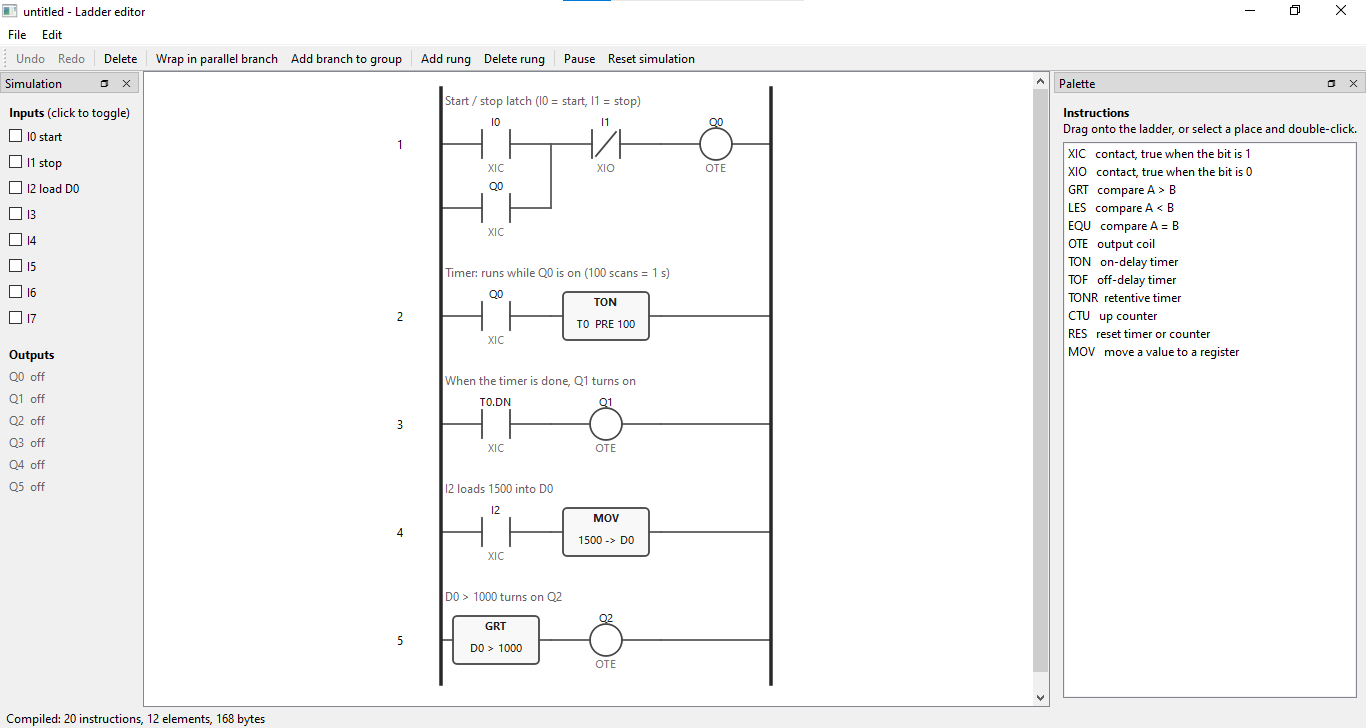
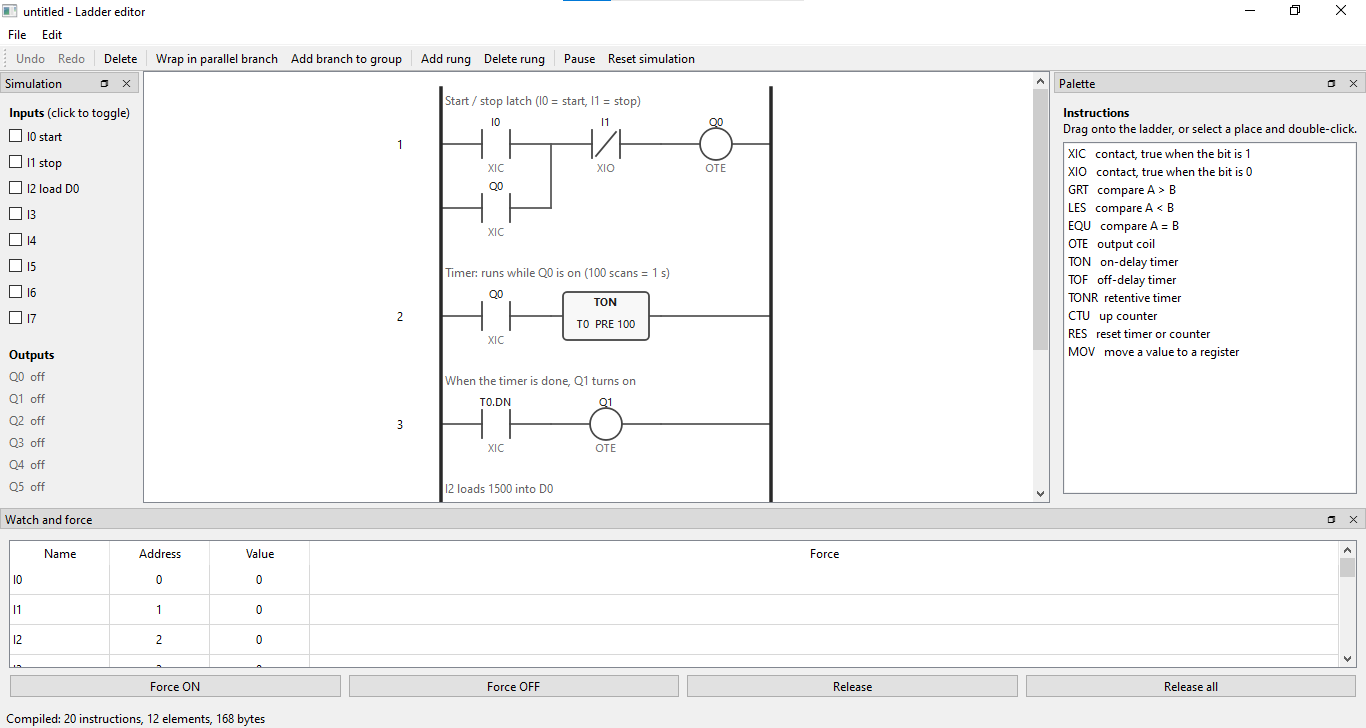
docs: update README for software completion and hardware bring-up

diff --git a/README.md b/README.md
@@ -2,18 +2,21 @@
 
 ![Qt 6](https://img.shields.io/badge/Qt-6-41cd52)
 ![C11](https://img.shields.io/badge/C-11-blue)
-![Status](https://img.shields.io/badge/status-software%20complete%2C%20hardware%20planned-orange)
+![Status](https://img.shields.io/badge/status-software%20complete%2C%20hardware%20in%20progress-orange)
 
 A low-cost teaching kit for industrial automation: a custom **PLC**, a **Qt6 ladder editor with simulator**, and integration with a commercial **Schneider Altivar 18 VFD**, designed for lab practicals at EPAC (École Polytechnique d'Abomey-Calavi, Benin).
 
 Final-year project by Peace Georland ADIKPETO, Electrical Engineering, Industrial Process Control.
 
-> **Status as of November 2026:** The ladder software (engine, compiler, editor, simulator, watch/force table) is complete and tested. The hardware (Blue Pill PLC shield) is being built. The project has pivoted to using the lab's Altivar 18 VFD via discrete terminal wiring, eliminating the high-voltage risks of building a custom VFD.
+> **Status as of 7 November 2026:** The ladder software (engine, compiler, editor, simulator, watch/force table, C-array export) is complete and fully tested. The Blue Pill (STM32F103) firmware is running the C engine with a 10 ms scan cycle. The Modbus Register Map v1 is defined. The project uses the lab's Altivar 18 VFD via discrete terminal wiring, eliminating the high-voltage risks of building a custom VFD.
 
 ## Screenshots
 
 ![Ladder editor](docs/images/pp.png)
 ![Live simulation](docs/images/pt.png)
+
+![PuTTy](docs/images/po.png)
+![Demo](docs/images/pm.jpg)
 
 ---
 
@@ -23,13 +26,14 @@ Final-year project by Peace Georland ADIKPETO, Electrical Engineering, Industria
 2. [Project status](#project-status)
 3. [System architecture](#system-architecture)
 4. [Ladder software](#ladder-software)
-5. [Hardware design (planned)](#hardware-design-planned)
+5. [Hardware design](#hardware-design)
 6. [Student safety concept](#student-safety-concept)
 7. [Building and running the software](#building-and-running-the-software)
 8. [Repository layout](#repository-layout)
 9. [Roadmap](#roadmap)
-10. [Design decisions](#design-decisions)
-11. [Cost](#cost)
+10. [Known limitations](#known-limitations)
+11. [Design decisions](#design-decisions)
+12. [Cost](#cost)
 
 ---
 
@@ -40,12 +44,12 @@ Commercial PLC and drive trainers are expensive and closed. This project builds 
 **In the kit (built in this project)**
 
 - **PLC board:** 8 opto-isolated 24 V inputs, 6 relay outputs (24 V only), RS485 port, 10 ms scan cycle, custom ladder interpreter.
-- **Qt6 ladder editor:** Drag-and-drop interface with a built-in simulator that runs the exact same C engine as the PLC. Includes a live Watch & Force table.
+- **Qt6 ladder editor:** Drag-and-drop interface with a built-in simulator that runs the exact same C engine as the PLC. Includes a live Watch & Force table and C-array export.
 - **Six lab exercises** and a student guide.
 
 **Provided by the lab**
 
-- **Schneider Altivar 18 (ATV18)** VFD (7.5 kW).
+- **Schneider Altivar 18 (ATV18)** VFD.
 - Three-phase motor (0.37 to 0.75 kW), contactors, e-stop, earthed bench supply with RCD, sensors and loads.
 
 **Out of scope**
@@ -65,9 +69,11 @@ Commercial PLC and drive trainers are expensive and closed. This project builds 
 | Ladder editor (Qt6) | Done | Drag-and-drop, operand editing, parallel branches, undo/redo, JSON save/load, 118 checks |
 | Simulator & Backend (Qt6) | Done | Isolates UI from C engine, supports forcing, 23 checks |
 | Watch & Force Model (Qt6) | Done | QAbstractTableModel for live I/O monitoring and forcing, 21 checks |
-| Modbus link between editor and PLC | Not started | Needs the PLC register map and a board to test against |
-| PLC board and firmware | In progress | STM32F103 (Blue Pill) shield with PC817 inputs, ULN2003A/relays, MAX485 |
-| VFD integration | In progress | Terminal control via PLC relays to ATV18 logic inputs (no Modbus on ATV18) |
+| C-array export | Done | Export ladder to C header for firmware, 10 checks |
+| Modbus Register Map | Done | Defined in v1 doc + `plc_modbus_map.h` |
+| Firmware (Blue Pill) | Done | 72 MHz clock, USART1, 10 ms scan, I/O mapping. Demo LEDs blink. |
+| Modbus link (PC to PLC) | Not started | Needs `modbus_slave.c` and `QtModbusBackend` |
+| VFD integration | Not started | Terminal control via PLC relays to ATV18 logic inputs |
 | Lab exercises and student guide | Not started | |
 
 ---
@@ -97,7 +103,7 @@ Plain C with no hardware dependency. Call `ld_scan()` every 10 ms.
 - **Structure:** series elements and nested parallel branches (up to 4 levels).
 - **Limits:** 512 instructions, 256 animation ids, 16 timers, 16 counters.
 - **Forcing:** `ld_force_input` and `ld_force_output` allow overriding physical bits from the HMI.
-- **Program image:** 8-byte header (magic, version, instruction count, Modbus CRC-16).
+- **Program image:** 8-byte header (magic, version, instruction count, Modbus CRC-16) followed by 8-byte instructions.
 
 ### Editor (`editor/`)
 
@@ -108,10 +114,11 @@ Qt6 Widgets application.
 - Undo and redo, save and open as JSON.
 - Live simulator: toggle inputs, watch outputs and elements turning green.
 - **Watch & Force Table:** View live states of I0-I7 and Q0-Q5. Force bits ON/OFF to test logic without physical hardware.
+- **Export:** Generate C-array code from the ladder to paste directly into the firmware.
 
 ---
 
-## Hardware design (planned)
+## Hardware design
 
 ### PLC
 
@@ -146,8 +153,21 @@ Qt6 Widgets application.
 **Requirements:** Qt 6 with the Widgets and SerialBus modules, and a C/C++ compiler.
 
 1. Open `plc_kit.pro` in Qt Creator and choose **Build All**.
-2. Run the test programs: `test_engine` (76), `test_compiler` (25), `test_edit` (118), `test_backend` (23), `test_watchmodel` (21). Total: 263 checks.
+2. Run the test programs: `test_engine` (76), `test_compiler` (25), `test_edit` (118), `test_backend` (23), `test_watchmodel` (21), `test_cexport` (10).
 3. Choose `ladder_editor` as the run target.
+
+---
+
+## Repository layout
+
+```
+plc_kit.pro          qmake subdirs project
+engine/              portable C ladder engine, SPEC.md, unit tests
+editor/              Qt6 editor: model, compiler, editing core, scene, window, tests
+docs/                documentation: BOM, safety concept, images
+hardware/            KiCad projects for the PLC (planned)
+firmware/            STM32F103 firmware (running ladder engine)
+```
 
 ---
 
@@ -160,16 +180,26 @@ Qt6 Widgets application.
 - [x] Editor with drag and drop, operand editing, branches, undo/redo, save/load
 - [x] Live simulator with element animation
 - [x] Watch and force table, forcing inside the C engine
-- [ ] Symbol names for addresses
-- [ ] PLC Modbus register map, portable Modbus slave handler, editor link (upload, live polling)
+- [x] C-array export for firmware
+- [x] Modbus register map v1
+- [ ] Portable Modbus slave handler (`modbus_slave.c`)
+- [ ] Qt ModbusBackend (upload, live polling)
 
 **Hardware and firmware**
 
+- [x] Flash the Blue Pill, test demo program (I0 latch, I1 stop, Q1 after 1s, I2 to Q2, arduino use as uart bridge)
 - [ ] Build the PLC shield (solder PC817, relays, MAX485).
 - [ ] Wire the PLC to the ATV18 (Q0->LI1, Q1->LI2, Q2->LI3, Q3->LI4).
-- [ ] Bring-up: Flash the Blue Pill, test Modbus link from Qt.
-- [ ] PLC firmware: scan loop, I/O, Modbus slave, forcing, program upload.
+- [ ] Test Modbus link over UART (Phase A), then over RS485 (Phase B).
 - [ ] Six lab exercises and the student guide.
+
+---
+
+## Known limitations
+
+- Ladder rungs are series and parallel only; bridge circuits are not supported.
+- Wrapping in a branch applies to one contact at a time; elements cannot be moved by dragging yet.
+- Timer and counter presets are constants.
 
 ---
 
